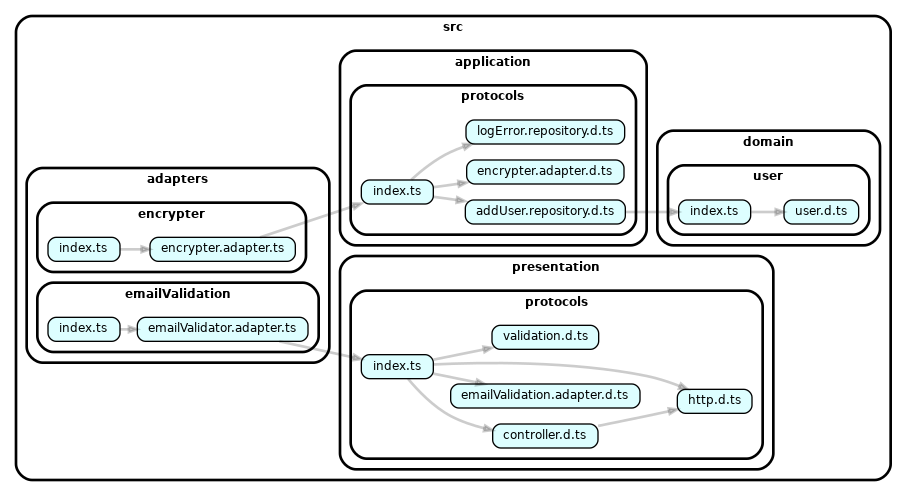
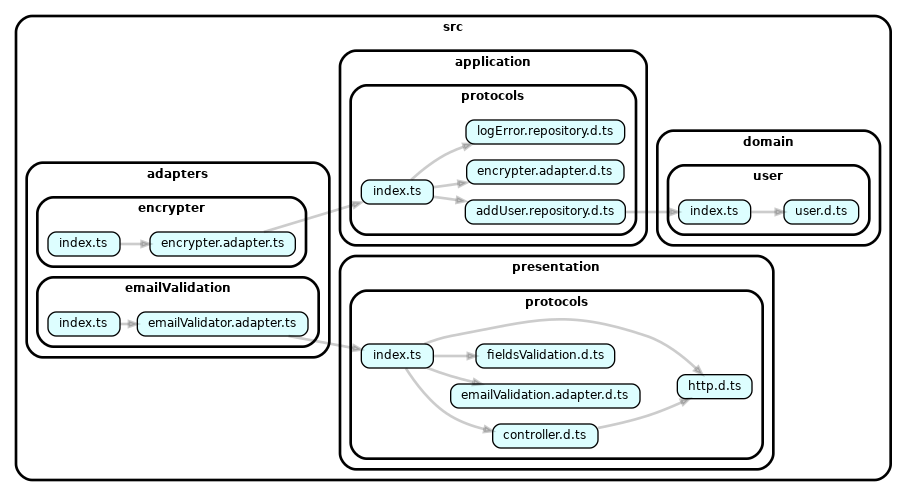
refacto: IValidation to IFieldsValidation

diff --git a/src/presentation/controllers/signup/signup.spec.ts b/src/presentation/controllers/signup/signup.spec.ts
@@ -1,14 +1,14 @@
 import { IAddUser, IUserModel } from '@/domain/user'
 import { MissingParamsError, ServerError } from '@/presentation/errors'
 import { badRequest, ok, serverError } from '../http'
-import { IValidation, IHttpRequest } from '@/presentation/protocols'
+import { IFieldsValidation, IHttpRequest } from '@/presentation/protocols'
 
 import { SignUpController } from './signup'
 
 interface IMockSignup {
   signUpController: SignUpController
   addUser: IAddUser
-  validation: IValidation
+  fieldsValidation: IFieldsValidation
 }
 
 const mockHttpRequest: IHttpRequest = {
@@ -27,8 +27,8 @@ const mockResponseAddUser: IUserModel = {
   password: 'valid_password',
 }
 
-const mockValidation = (): IValidation => {
-  class ValidationMock implements IValidation {
+const mockValidation = (): IFieldsValidation => {
+  class ValidationMock implements IFieldsValidation {
     validate(_input: any): Error | null {
       return null
     }
@@ -47,12 +47,12 @@ const mockAddUser = (): IAddUser => {
 
 const mockSignup = (): IMockSignup => {
   const addUser = mockAddUser()
-  const validation = mockValidation()
-  const signUpController = new SignUpController(validation, addUser)
+  const fieldsValidation = mockValidation()
+  const signUpController = new SignUpController(fieldsValidation, addUser)
 
   return {
     signUpController,
-    validation,
+    fieldsValidation,
     addUser,
   }
 }
@@ -90,17 +90,17 @@ describe('SignUp Controller', () => {
   })
 
   test('call Validation with correct values', async () => {
-    const { signUpController, validation } = mockSignup()
-    const validationSpy = jest.spyOn(validation, 'validate')
+    const { signUpController, fieldsValidation } = mockSignup()
+    const validationSpy = jest.spyOn(fieldsValidation, 'validate')
     await signUpController.handle(mockHttpRequest)
 
     expect(validationSpy).toHaveBeenCalledWith(mockHttpRequest.body)
   })
 
-  test('400 if validation error', async () => {
-    const { signUpController, validation } = mockSignup()
+  test('400 if fieldsValidation error', async () => {
+    const { signUpController, fieldsValidation } = mockSignup()
     jest
-      .spyOn(validation, 'validate')
+      .spyOn(fieldsValidation, 'validate')
       .mockReturnValueOnce(new MissingParamsError('field'))
     const httpresponse = await signUpController.handle(mockHttpRequest)
 

diff --git a/src/main/factories/signupValidation.spec.ts b/src/main/factories/signupValidation.spec.ts
@@ -1,13 +1,16 @@
-import { IEmailValidationAdapter, IValidation } from '@/presentation/protocols'
+import {
+  IEmailValidationAdapter,
+  IFieldsValidation,
+} from '@/presentation/protocols'
 import {
   CompareFieldsValidation,
   EmailValidation,
   RequiredFieldValidation,
-  ValidationComposite,
+  FieldsValidationComposite,
 } from '@/presentation/validators'
-import { makeSignupValidation } from './signupValidation'
+import { makeSignupFieldsValidation } from './signupValidation'
 
-jest.mock('@/presentation/validators/validationComposite')
+jest.mock('@/presentation/validators/fieldsValidationComposite')
 
 const mockEmailValidationAdapter = (): IEmailValidationAdapter => {
   class EmailValidationAdapterMock implements IEmailValidationAdapter {
@@ -19,18 +22,20 @@ const mockEmailValidationAdapter = (): IEmailValidationAdapter => {
 }
 
 describe('Signup Validation', () => {
-  test('call ValidationComposite', () => {
-    makeSignupValidation()
+  test('call FieldsValidationComposite', () => {
+    makeSignupFieldsValidation()
 
-    const validations: IValidation[] = []
+    const fieldsValidation: IFieldsValidation[] = []
 
     for (const field of ['name', 'email', 'password', 'passwordConfirmation']) {
-      validations.push(new RequiredFieldValidation(field))
+      fieldsValidation.push(new RequiredFieldValidation(field))
     }
-    validations.push(
+    fieldsValidation.push(
       new CompareFieldsValidation('password', 'passwordConfirmation')
     )
-    validations.push(new EmailValidation('email', mockEmailValidationAdapter()))
-    expect(ValidationComposite).toHaveBeenCalledWith(validations)
+    fieldsValidation.push(
+      new EmailValidation('email', mockEmailValidationAdapter())
+    )
+    expect(FieldsValidationComposite).toHaveBeenCalledWith(fieldsValidation)
   })
 })

diff --git a/src/main/factories/signupValidation.ts b/src/main/factories/signupValidation.ts
@@ -1,20 +1,22 @@
-import { IValidation } from '@/presentation/protocols'
+import { IFieldsValidation } from '@/presentation/protocols'
 import {
   CompareFieldsValidation,
   EmailValidation,
   RequiredFieldValidation,
-  ValidationComposite,
+  FieldsValidationComposite,
 } from '@/presentation/validators'
 import { EmailValidationAdapter } from '@/adapters/emailValidation'
 
-export const makeSignupValidation = (): ValidationComposite => {
-  const validations: IValidation[] = []
+export const makeSignupFieldsValidation = (): FieldsValidationComposite => {
+  const fieldsValidation: IFieldsValidation[] = []
   for (const field of ['name', 'email', 'password', 'passwordConfirmation']) {
-    validations.push(new RequiredFieldValidation(field))
+    fieldsValidation.push(new RequiredFieldValidation(field))
   }
-  validations.push(
+  fieldsValidation.push(
     new CompareFieldsValidation('password', 'passwordConfirmation')
   )
-  validations.push(new EmailValidation('email', new EmailValidationAdapter()))
-  return new ValidationComposite(validations)
+  fieldsValidation.push(
+    new EmailValidation('email', new EmailValidationAdapter())
+  )
+  return new FieldsValidationComposite(fieldsValidation)
 }

diff --git a/src/presentation/controllers/signup/signup.ts b/src/presentation/controllers/signup/signup.ts
@@ -2,23 +2,23 @@ import { IAddUser } from '@/domain/user'
 import {
   IController,
   IHttpRequest,
-  IValidation,
+  IFieldsValidation,
   IHttpResponse,
 } from '@/presentation/protocols'
 import { badRequest, ok, serverError } from '../http'
 
 export class SignUpController implements IController {
-  private readonly validation: IValidation
+  private readonly fieldsValidation: IFieldsValidation
   private readonly addUser: IAddUser
 
-  constructor(validation: IValidation, addUser: IAddUser) {
-    this.validation = validation
+  constructor(fieldsValidation: IFieldsValidation, addUser: IAddUser) {
+    this.fieldsValidation = fieldsValidation
     this.addUser = addUser
   }
 
   async handle(httprequest: IHttpRequest): Promise<IHttpResponse> {
     try {
-      const error = this.validation.validate(httprequest.body)
+      const error = this.fieldsValidation.validate(httprequest.body)
       if (error) {
         return badRequest(error)
       }

diff --git a/src/main/factories/signup.ts b/src/main/factories/signup.ts
@@ -4,14 +4,17 @@ import { LogMongoRepository, UserMongoRepository } from '@/infra/mongo'
 import { SignUpController } from '@/presentation/controllers'
 import { IController } from '@/presentation/protocols'
 import { LogDecorator } from '../decorators'
-import { makeSignupValidation } from './signupValidation'
+import { makeSignupFieldsValidation } from './signupValidation'
 
 export const makeSignupController = (): IController => {
   const salt = 12
   const bcryptAdaptor = new EncrypterAdapter(salt)
   const userMongoRepository = new UserMongoRepository()
   const addUser = new AddUser(bcryptAdaptor, userMongoRepository)
-  const signUpController = new SignUpController(makeSignupValidation(), addUser)
+  const signUpController = new SignUpController(
+    makeSignupFieldsValidation(),
+    addUser
+  )
   const logMongooseRepository = new LogMongoRepository()
   return new LogDecorator(signUpController, logMongooseRepository)
 }

diff --git a/src/presentation/validators/fieldsValidationComposite.ts b/src/presentation/validators/fieldsValidationComposite.ts
@@ -1,0 +1,19 @@
+import { IFieldsValidation } from '../protocols'
+
+export class FieldsValidationComposite implements IFieldsValidation {
+  private readonly fieldsValidation: IFieldsValidation[]
+
+  constructor(fieldsValidation: IFieldsValidation[]) {
+    this.fieldsValidation = fieldsValidation
+  }
+
+  validate(input: any): Error | null {
+    for (const fieldsValidation of this.fieldsValidation) {
+      const error = fieldsValidation.validate(input)
+      if (error) {
+        return error
+      }
+    }
+    return null
+  }
+}

diff --git a/src/presentation/validators/emailValidation.ts b/src/presentation/validators/emailValidation.ts
@@ -1,7 +1,7 @@
 import { InvalidParamsError } from '../errors'
-import { IEmailValidationAdapter, IValidation } from '../protocols'
+import { IEmailValidationAdapter, IFieldsValidation } from '../protocols'
 
-export class EmailValidation implements IValidation {
+export class EmailValidation implements IFieldsValidation {
   private readonly field: string
   private readonly emailValidationAdapter: IEmailValidationAdapter
 

diff --git a/src/presentation/validators/compareFieldsValidation.ts b/src/presentation/validators/compareFieldsValidation.ts
@@ -1,7 +1,7 @@
 import { InvalidParamsError } from '../errors'
-import { IValidation } from '../protocols'
+import { IFieldsValidation } from '../protocols'
 
-export class CompareFieldsValidation implements IValidation {
+export class CompareFieldsValidation implements IFieldsValidation {
   private readonly field1: string
   private readonly field2: string
 

diff --git a/src/presentation/validators/requiredFieldValidation.ts b/src/presentation/validators/requiredFieldValidation.ts
@@ -1,7 +1,7 @@
 import { MissingParamsError } from '../errors'
-import { IValidation } from '../protocols'
+import { IFieldsValidation } from '../protocols'
 
-export class RequiredFieldValidation implements IValidation {
+export class RequiredFieldValidation implements IFieldsValidation {
   private readonly field: string
 
   constructor(field: string) {

diff --git a/src/presentation/validators/index.ts b/src/presentation/validators/index.ts
@@ -1,4 +1,4 @@
 export * from './requiredFieldValidation'
-export * from './validationComposite'
+export * from './fieldsValidationComposite'
 export * from './compareFieldsValidation'
 export * from './emailValidation'

diff --git a/src/presentation/protocols/index.ts b/src/presentation/protocols/index.ts
@@ -1,4 +1,4 @@
 export * from './controller'
 export * from './http'
 export * from './emailValidation.adapter'
-export * from './validation'
+export * from './fieldsValidation'

diff --git a/src/presentation/protocols/fieldsValidation.d.ts b/src/presentation/protocols/fieldsValidation.d.ts
@@ -1,3 +1,3 @@
-export interface IValidation {
+export interface IFieldsValidation {
   validate: (input: any) => Error | null
 }
